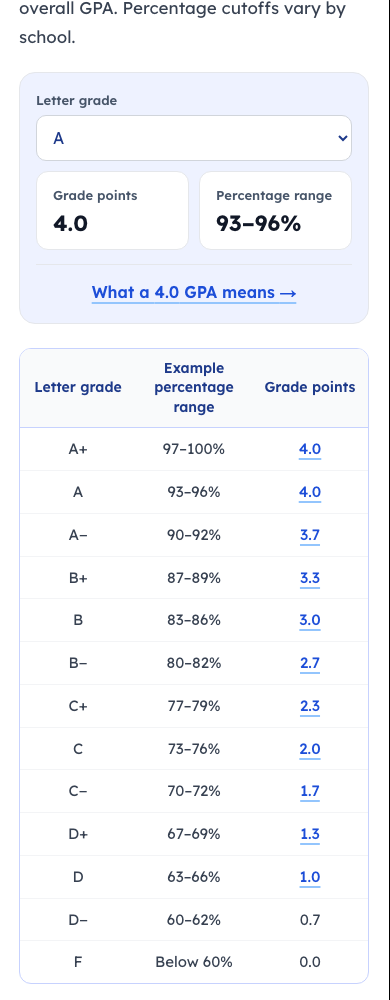
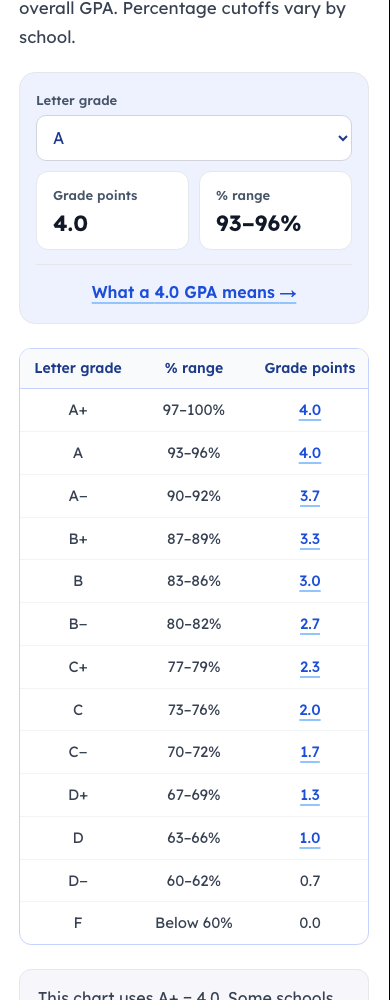
Hub: "% range" for the converter label (theme) and the letter table header (content, live 09:02)

diff --git a/scripts/wp/hub_header_range.php b/scripts/wp/hub_header_range.php
@@ -1,0 +1,18 @@
+<?php
+/**
+ * GPA Scale hub (22335): the letter-grade table's "Example percentage range" header becomes "% range" (Digant 2026-10-03 09:00).
+ * Re-reads the page right before saving and changes only that header cell. GPC_SAVE=1 saves (revisions kept).
+ */
+$id  = 22335;
+$old = '>Example percentage range</th>';
+$new = '>% range</th>';
+$c   = get_post_field( 'post_content', $id );
+$n   = substr_count( $c, $old );
+echo "header found x$n\n";
+if ( 1 !== $n ) { echo "NOT SAVED\n"; return; }
+if ( '1' !== getenv( 'GPC_SAVE' ) ) { echo "dry run\n"; return; }
+kses_remove_filters();
+$c      = get_post_field( 'post_content', $id ); // re-read right before saving
+$before = wp_save_post_revision( $id );
+$r      = wp_update_post( array( 'ID' => $id, 'post_content' => wp_slash( str_replace( $old, $new, $c ) ) ), true );
+echo is_wp_error( $r ) ? 'SAVE FAILED ' . $r->get_error_message() . "\n" : 'saved; revisions ' . (int) $before . ' → ' . (int) wp_save_post_revision( $id ) . "\n";

diff --git a/child-theme/generatepress-child/gpa-shortcodes.php b/child-theme/generatepress-child/gpa-shortcodes.php
@@ -344,7 +344,7 @@ function gpa_scale_converter_shortcode() {
 		. '<select class="gpa-quickconv__select" aria-describedby="gpa-quickconv-out">' . $opts . '</select></label>'
 		. '<div class="gpa-quickconv__out" id="gpa-quickconv-out" aria-live="polite">'
 		. '<div class="gpa-quickconv__stat"><span class="gpa-quickconv__label">Grade points</span><strong data-out="points">' . esc_html( $pts ) . '</strong></div>'
-		. '<div class="gpa-quickconv__stat"><span class="gpa-quickconv__label">Percentage range</span><strong data-out="range">' . esc_html( $range ) . '</strong></div>'
+		. '<div class="gpa-quickconv__stat"><span class="gpa-quickconv__label">% range</span><strong data-out="range">' . esc_html( $range ) . '</strong></div>'
 		. '<a class="gpa-quickconv__link" data-out="link" href="' . esc_url( $url ) . '"' . ( $url ? '' : ' hidden' ) . '>What a <span data-out="gpa">' . esc_html( $pts ) . '</span> GPA means <span aria-hidden="true">&rarr;</span></a>'
 		. '</div></div>';
 }

diff --git a/docs/LIVE_CHANGELOG.md b/docs/LIVE_CHANGELOG.md
@@ -21,6 +21,7 @@ Full DB restore: `gunzip -c ~/backups/<file>.sql.gz | wp db import -` then `wp b
 
 | Time (UTC) | URL(s) | What changed | Revert |
 | --- | --- | --- | --- |
+| 09:02 | /gpa-scale/ hub (22335) | Letter-grade table header "Example percentage range" → "% range" (Digant 09:00), `scripts/wp/hub_header_range.php`; page re-read right before saving, only that cell changed (diff checked). Breeze purged. | Page revision of 08:37; DB backup `gpacalculator-2026-10-03-0902-pre-hub-header.sql.gz` |
 | 08:40 | /gpa-scale/ hub + 31 × /gpa-scale/x-x-gpa/ | Purge + QA. Breeze purged. 390px pass on all 32 pages (Playwright, live): no horizontal scroll, no raw shortcodes, 13-row chart with the rule's row(s) marked, Weighted tab + 12 AP re-estimates correctly and moves the mark, hub has 21 cards, the new converter and no old converter. Ads (browser UA, scrolled, 8s): 3.9, hub, 2.5 at 1440 = 7/7 slots filled; at 390 = 3/3, 3/3, hub 2/3. Cloudflare not purged (chart images keep old copies there until it expires). | — |
 | 08:39 | 31 chart images (featured / social image of each GPA page) | Replaced in place with `content/gpa-scale-images/` (scripts/render_gpa_scale_images.py: the 13-row chart, the rule's figures, rule rows marked); sizes and .webp regenerated, alt text updated. The 960x700 / 400x300 copies were not regenerated (sizes no longer registered; nothing references them). | Old files: `~/backups/gpa-scale-charts-pre-0838.tar.gz` (extract over `wp-content/uploads`, then `wp media regenerate` for those attachments) |
 | 08:38 | 14 × /gpa-scale/x-x-gpa/ (Rank Math) | Title and description figures follow the rule (`content/gpa-scale-meta-2026-10-03.json`, old values in it). | `GPC_REVERT=1` with `scripts/wp/gpa_scale_meta.php` (see its header) |
